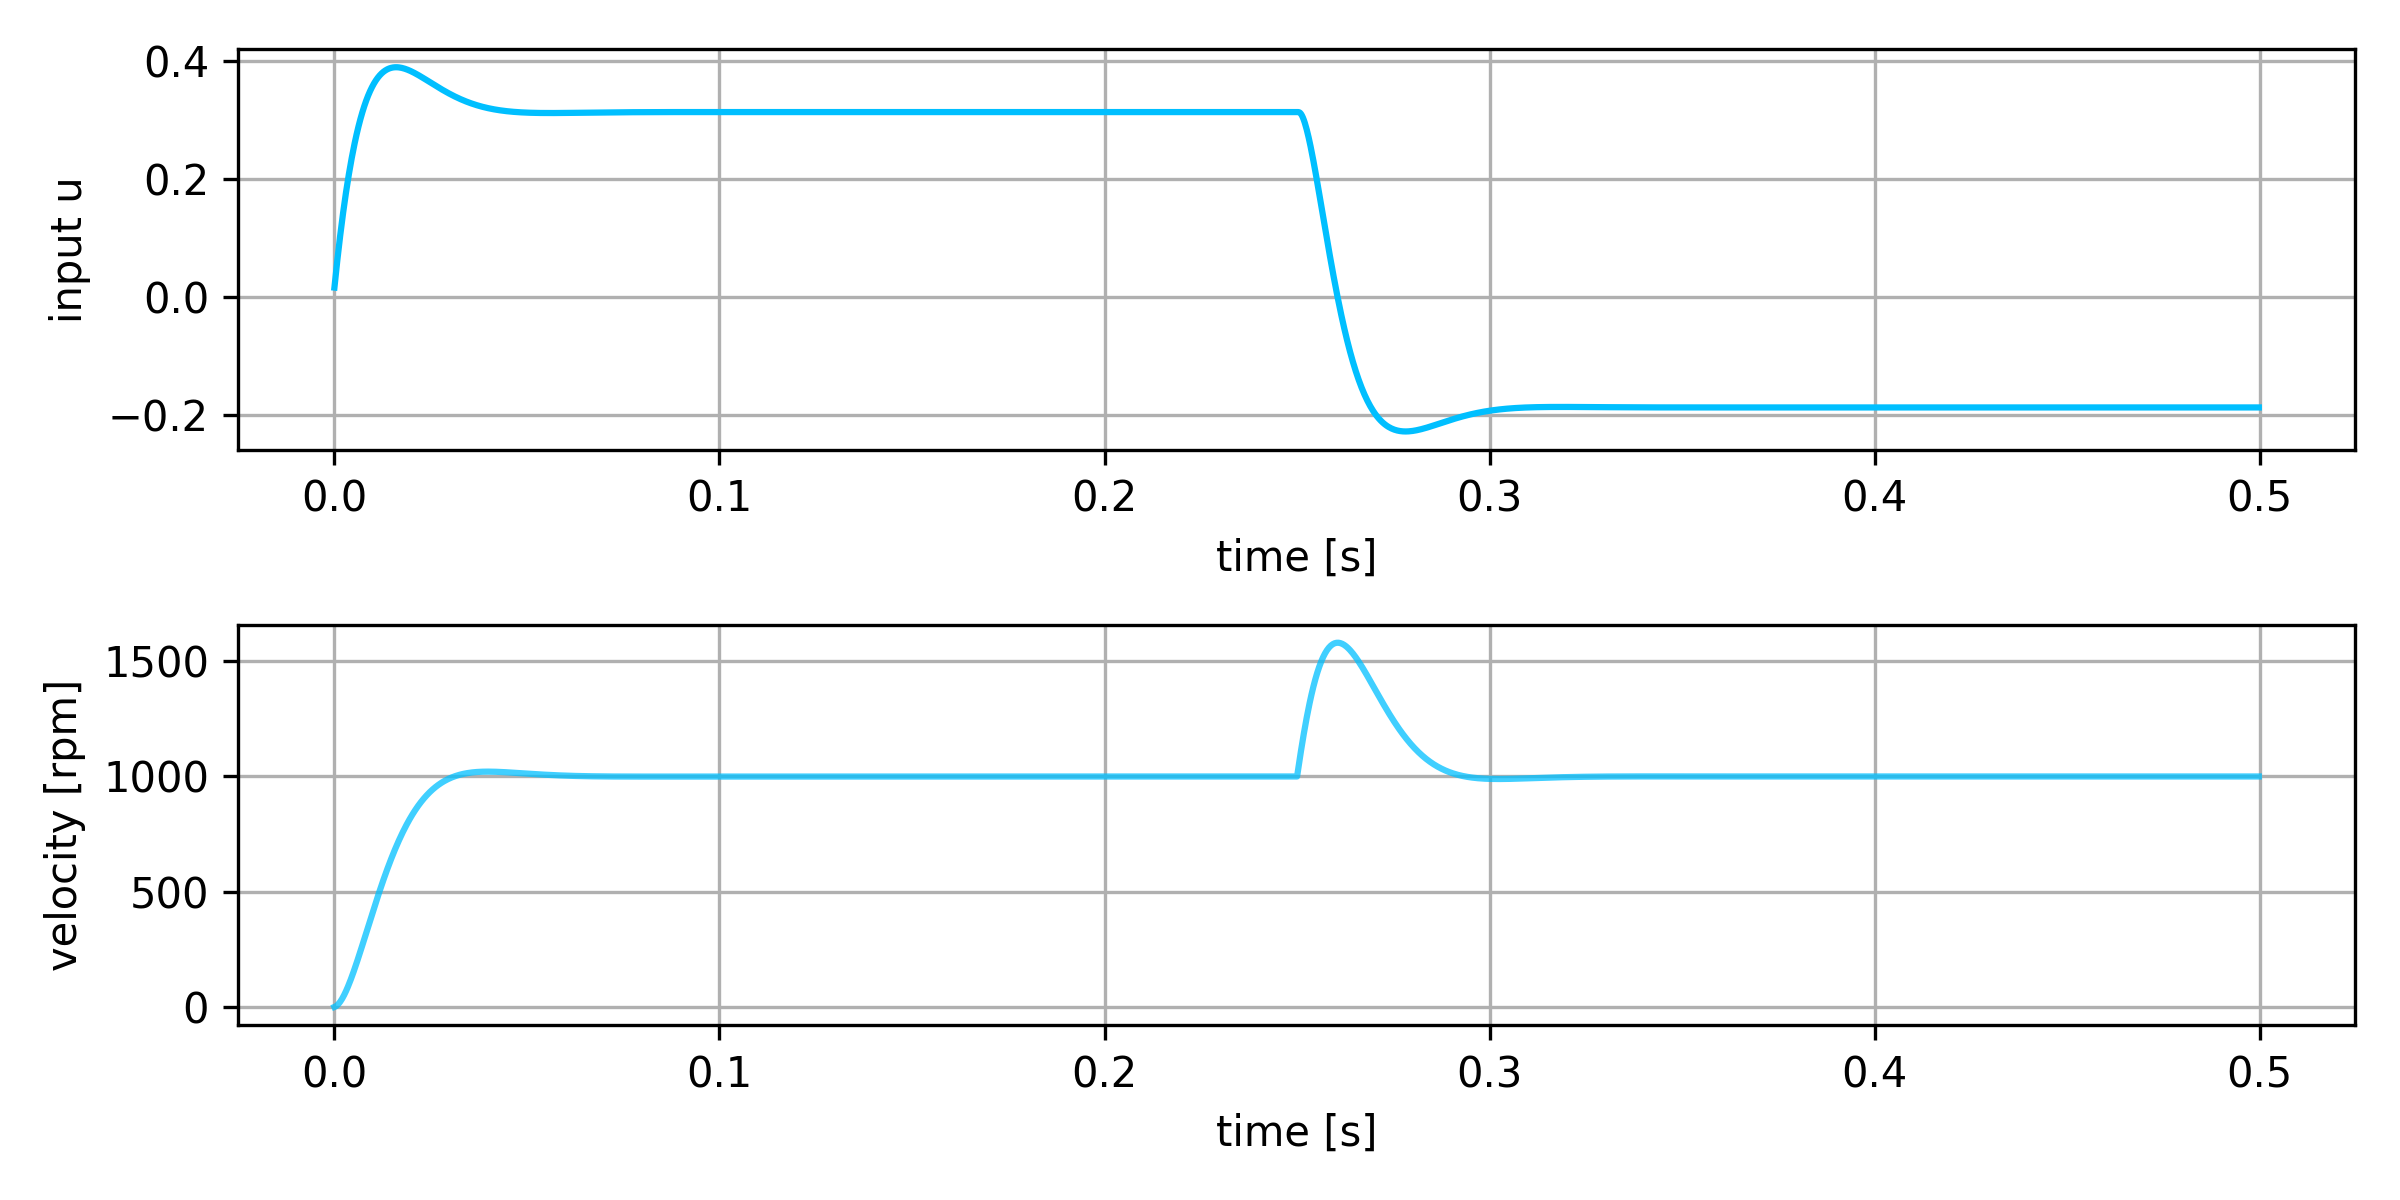
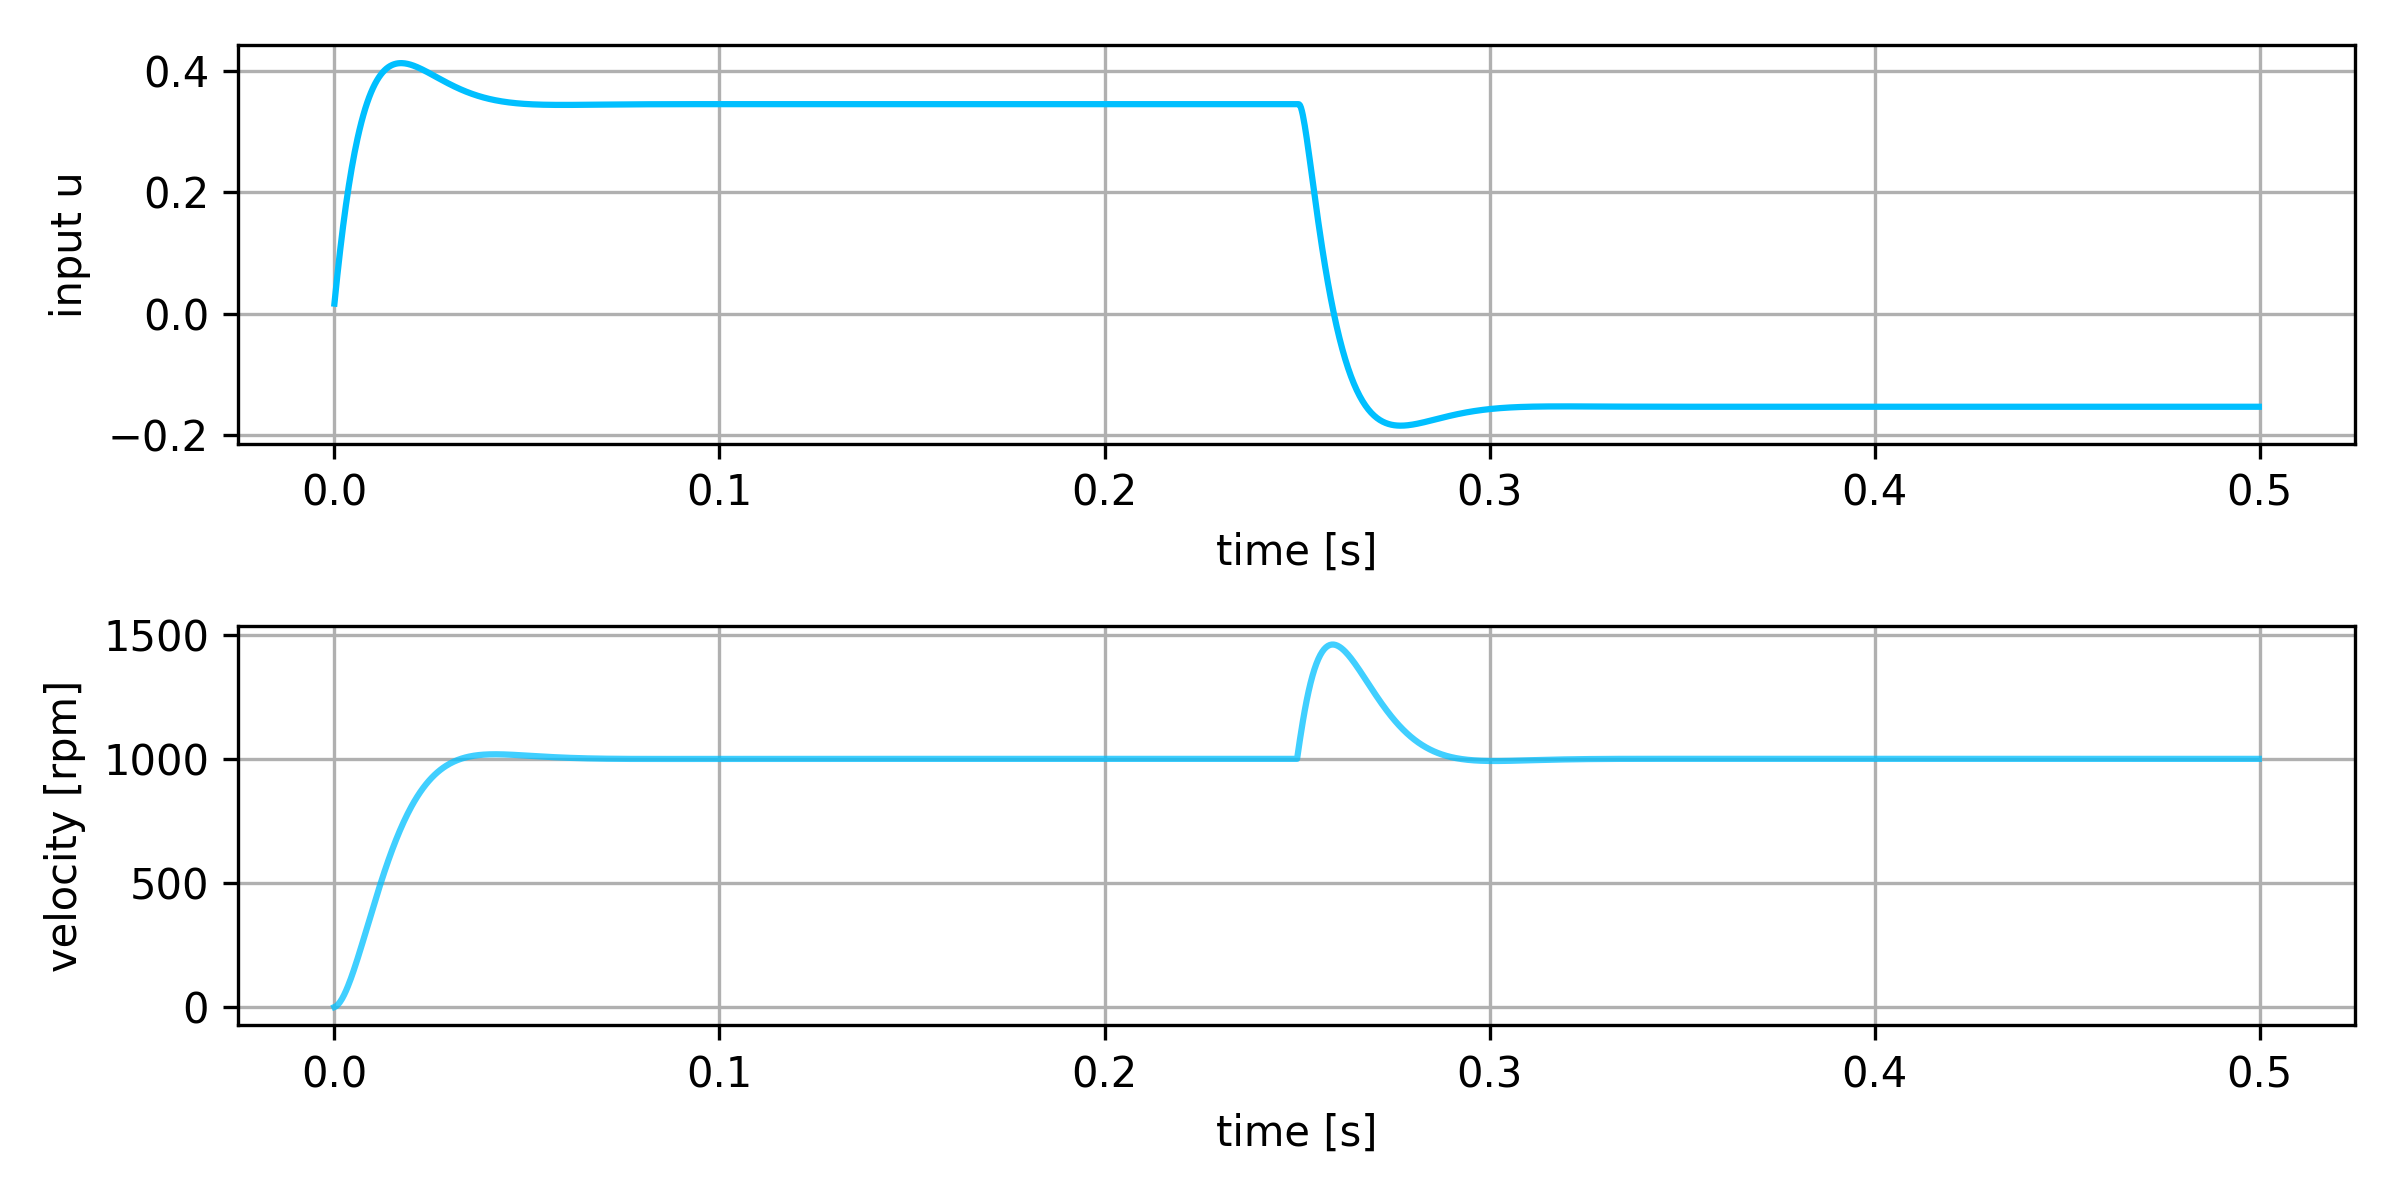
new motor control

diff --git a/firmware/libs/LibsDrivers/motor_control_bldc.cpp b/firmware/libs/LibsDrivers/motor_control_bldc.cpp
@@ -71,8 +71,8 @@ void MotorControl::init()
 
     
     float k0 = 0.3;
-    float k1 = 0.3;  
-    float k2 = 0.2;        
+    float k1 = 1.0;  
+    float k2 = 1.0;        
 
     left_kf.init(k0, k1, k2,  0.000001*MOTOR_CONTROL_DT);
     right_kf.init(k0, k1, k2, 0.000001*MOTOR_CONTROL_DT);
@@ -105,14 +105,22 @@ void MotorControl::init()
     right_controller.init(k, ki, 1.0);
     */
 
+    /*
     // Q = 1, R = 4*(10**7)
-
     float a =  0.98230088;
     float b =  5.91150442;
 
     float k  = 0.00492188;
     float ki = 0.00015583;
     float f  = 0.03502382;
+    */
+
+    float a =  0.98147325;
+    float b =  5.60662146;
+
+    float k  =  0.00491353;
+    float ki =  0.00015595;
+    float f  =  0.14402203;
 
     left_controller.init(a, b, k, ki, f, 1.0);
     right_controller.init(a, b, k, ki, f, 1.0);

diff --git a/firmware/demos/identification_motor/main.cpp b/firmware/demos/identification_motor/main.cpp
@@ -11,15 +11,14 @@ int main()
     // wait for key press
     int key_result = button();
 
-
-    motor_control.set_left_torque(0.2); 
     timer.delay_ms(500);      
 
+    /*
     float k      = 0.05;
     float x_mean = 0.0;
     float x_var  = 0.0; 
 
-    while (true)        
+    while (true)         
     {
         float x = motor_control.get_left_velocity();
 
@@ -32,7 +31,7 @@ int main()
 
         timer.delay_ms(20);
     }
-    
+    */
 
     motor_identification();
 

diff --git a/firmware/demos/motor_control/main.cpp b/firmware/demos/motor_control/main.cpp
@@ -14,7 +14,7 @@ int main()
     float speed_max = 2000;
     float speed     = 0;
 
-    while (true)    
+    while (true)        
     {   
         motor_control.set_left_velocity(60*(2.0*PI)/60.0);
         motor_control.set_right_velocity(60*(2.0*PI)/60.0);
